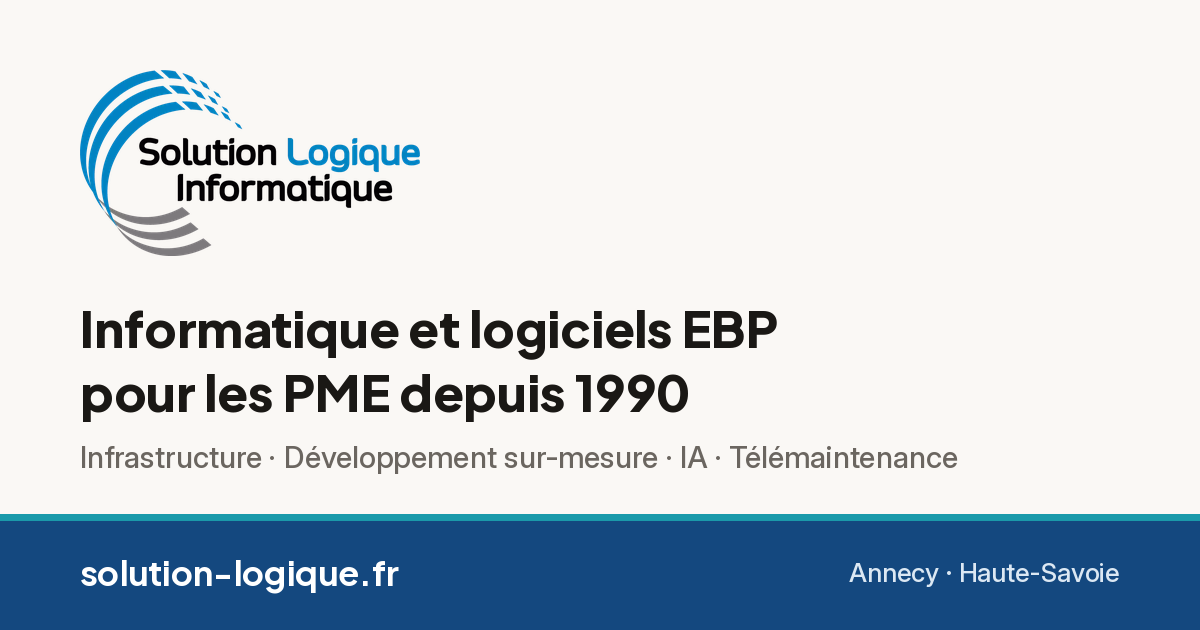
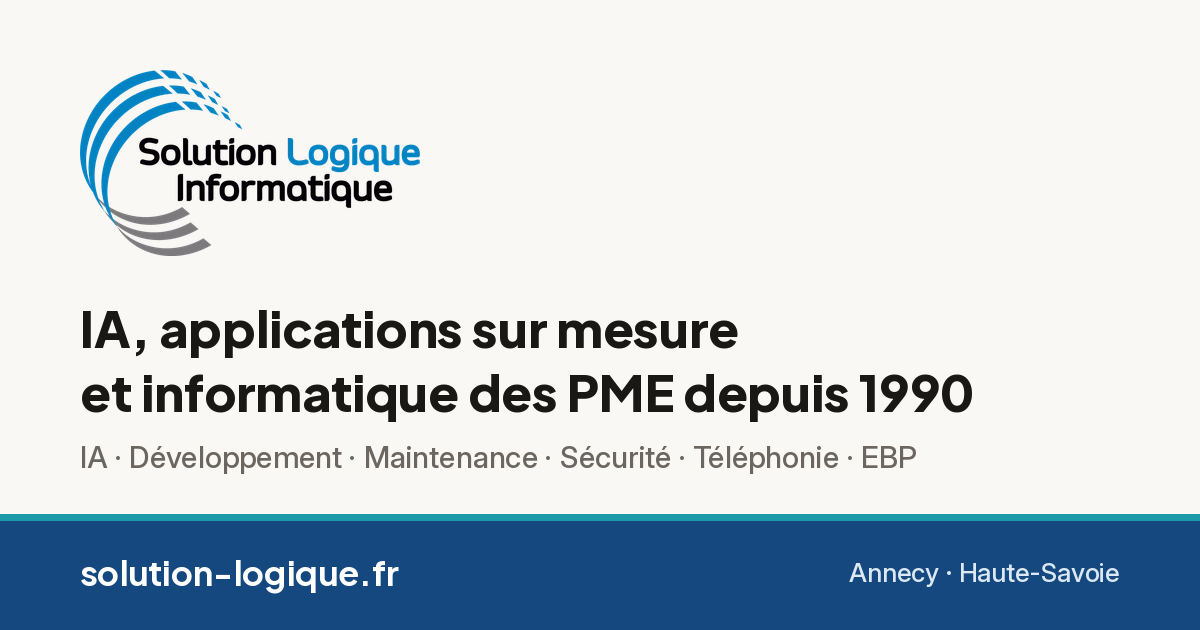
fix(seo): l'IA et le développement sur mesure d'abord, EBP en dernier
Ordre de mise en avant voulu par la direction le 29/10 : l'accompagnement
IA et le développement d'applications sur mesure en tête, l'informatique
comme socle, les logiciels EBP en dernier. Les faits ne changent pas,
seuls l'ordre et l'accent des textes posés le jour même :

- titre et description de l'accueil, titre par défaut, mots-clés ;
- titres des pages Développement et Applications, qui ne se limitent
  plus à EBP (les pages parlent aussi de CRM, banque, autre ERP) ;
- description de la page Contact ;
- données structurées : description, knowsAbout réordonné, makesOffer
  vers la page de chaque offre ;
- llms.txt : introduction et sections dans le même ordre ;
- image de partage.

Changed region(s): [[0.0617, 0.4825, 0.8325, 0.6635], [0.0617, 0.6937, 0.8017, 0.754]]

diff --git a/Web_NextJS/lib/seo.ts b/Web_NextJS/lib/seo.ts
@@ -21,7 +21,7 @@ export const IMAGE_PARTAGE = {
   url: "/assets/partage-solution-logique.png",
   width: 1200,
   height: 630,
-  alt: "Solution Logique, informatique et logiciels EBP à Annecy",
+  alt: "Solution Logique, IA, applications sur mesure et informatique des PME depuis 1990, à Annecy",
 };
 
 export interface PageSite {
@@ -49,9 +49,9 @@ export const PAGES: PageSite[] = [
   {
     chemin: "",
     titre: "Accueil",
-    titreAbsolu: "Solution Logique, informatique et logiciels EBP à Annecy",
+    titreAbsolu: "Solution Logique, IA, développement et informatique à Annecy",
     description:
-      "Solution Logique à Annecy : informatique pour PME, TPE et collectivités. Logiciels EBP, infrastructure, sur-mesure, IA et télémaintenance depuis plus de 30 ans.",
+      "Solution Logique, Annecy : IA et applications sur mesure pour les PME, informatique, sécurité et téléphonie avec un interlocuteur local, et logiciels EBP.",
     libelle: "Accueil",
     sources: ["app/page.tsx", "components/sections"],
     prioritePlan: 1,
@@ -167,30 +167,30 @@ export const PAGES: PageSite[] = [
     chemin: "/sur-mesure",
     titre: "Sur-mesure et intelligence artificielle",
     description:
-      "Applications métier autour d'EBP, intégrations, états sur-mesure et accompagnement IA pour les PME de Haute-Savoie. Solution Logique, Annecy.",
+      "Applications métier, intégrations, applications mobile et web et accompagnement IA pour les PME de Haute-Savoie. Solution Logique, Annecy.",
     libelle: "Sur-mesure & IA",
     sources: ["app/sur-mesure"],
     prioritePlan: 0.6,
   },
   {
     chemin: "/developpement-sur-mesure",
-    titre: "Développement sur-mesure autour d'EBP",
+    titre: "Développement d'applications sur mesure",
     description:
-      "Applications métier, intégrations et états sur-mesure autour de vos logiciels EBP. Solution Logique, Annecy, 30 ans d'expérience terrain.",
+      "Applications métier, intégrations et états sur mesure reliés à vos outils : EBP, CRM, banque, boutique en ligne. Solution Logique, Annecy, 30 ans de terrain.",
     libelle: "Développement sur-mesure",
     parent: "/sur-mesure",
-    service: { nom: "Développement sur-mesure autour d'EBP", type: "Développement d'applications métier" },
+    service: { nom: "Développement d'applications métier sur mesure", type: "Développement d'applications métier" },
     sources: ["app/developpement-sur-mesure"],
     prioritePlan: 0.7,
   },
   {
     chemin: "/applications-mobile-web",
-    titre: "Applications mobile et web liées à EBP",
+    titre: "Applications mobile et web sur mesure",
     description:
       "Applications terrain, portails web et tableaux de bord connectés à EBP ou à votre ERP. Données synchronisées, usage hors ligne. Solution Logique, Annecy.",
     libelle: "Applications mobile et web",
     parent: "/sur-mesure",
-    service: { nom: "Applications mobile et web connectées à EBP", type: "Développement d'applications mobile et web" },
+    service: { nom: "Applications mobile et web sur mesure", type: "Développement d'applications mobile et web" },
     sources: ["app/applications-mobile-web", "components/sections/ParcoursTerrain.tsx"],
     prioritePlan: 0.7,
   },
@@ -209,7 +209,7 @@ export const PAGES: PageSite[] = [
     chemin: "/contact",
     titre: "Contact, nous joindre à Annecy",
     description:
-      "Contactez Solution Logique : 04 50 64 02 33, 475 route des Vernes, 74370 Annecy. Devis gratuit pour vos logiciels EBP, formations et solutions informatiques.",
+      "Contactez Solution Logique : 04 50 64 02 33, 475 route des Vernes, 74370 Annecy. Devis gratuit : sur-mesure, IA, informatique, téléphonie et logiciels EBP.",
     libelle: "Contact",
     sources: ["app/contact"],
     prioritePlan: 0.6,

diff --git a/Web_NextJS/components/seo/StructuredData.tsx b/Web_NextJS/components/seo/StructuredData.tsx
@@ -26,6 +26,19 @@ export const ZONES_SERVIES = [
   { "@type": "AdministrativeArea", "name": "Savoie", "sameAs": "https://fr.wikipedia.org/wiki/Savoie_(d%C3%A9partement)" },
 ];
 
+/* Pages des offres, dans l'ordre de mise en avant (direction, 29/10/2026) */
+const OFFRES = [
+  "/accompagnement-ia",
+  "/developpement-sur-mesure",
+  "/applications-mobile-web",
+  "/informatique",
+  "/securite",
+  "/audit-cybersecurite",
+  "/telecom",
+  "/telemaintenance",
+  "/logiciels",
+];
+
 export const ORGANISATION = {
   "@context": "https://schema.org",
   "@type": ["Organization", "LocalBusiness"],
@@ -37,7 +50,35 @@ export const ORGANISATION = {
   "logo": `${SITE_URL}/assets/sli.webp`,
   "image": `${SITE_URL}/assets/solution.webp`,
   "description":
-    "Solutions informatiques, logiciels EBP, développement sur-mesure, accompagnement IA et télémaintenance depuis plus de 30 ans en Haute-Savoie.",
+    "Accompagnement IA, développement d'applications sur mesure et informatique des entreprises (postes, serveurs, sécurité, téléphonie IP, télémaintenance), avec un interlocuteur local, et logiciels EBP depuis plus de 30 ans en Haute-Savoie.",
+  /* Domaines dans l'ordre des activites voulu par la direction le 29/10/2026 :
+     l'IA et le developpement sur mesure d'abord, puis l'informatique (le
+     socle), et EBP en dernier. Chaque domaine a sa page sur le site. */
+  "knowsAbout": [
+    "Intelligence artificielle pour les PME",
+    "Développement d'applications sur mesure",
+    "Applications mobile et web",
+    "Maintenance informatique",
+    "Infrastructure informatique et cloud",
+    "Sauvegarde des données",
+    "Sécurité informatique",
+    "Audit de cybersécurité",
+    "Téléphonie IP et réseaux",
+    "Télémaintenance",
+    "Logiciels EBP",
+  ],
+  /* Les offres, dans le meme ordre, chacune vers sa page */
+  "makesOffer": OFFRES.map((chemin) => {
+    const page = pageSite(chemin);
+    return {
+      "@type": "Offer",
+      "itemOffered": {
+        "@type": "Service",
+        "name": page.service?.nom ?? page.titre,
+        "url": urlPage(chemin),
+      },
+    };
+  }),
   "foundingDate": "1990-11-08",
   "identifier": {
     "@type": "PropertyValue",

diff --git a/Web_NextJS/app/layout.tsx b/Web_NextJS/app/layout.tsx
@@ -32,12 +32,12 @@ const jakarta = Plus_Jakarta_Sans({
 export const metadata: Metadata = {
   metadataBase: new URL(SITE_URL),
   title: {
-    default: "Solution Logique, informatique et logiciels EBP à Annecy",
+    default: "Solution Logique, IA, développement et informatique à Annecy",
     template: "%s | Solution Logique",
   },
   description:
-    "Solution Logique à Annecy (74) : solutions informatiques, logiciels EBP (comptabilité, gestion commerciale, bâtiment), formations, télémaintenance et sécurité. Plus de 30 ans d'expertise.",
-  keywords: ["informatique Annecy", "logiciel EBP", "formation EBP", "télémaintenance", "solution informatique entreprise", "comptabilité EBP", "gestion commerciale", "sécurité informatique", "Haute-Savoie"],
+    "Solution Logique à Annecy (74) : accompagnement IA, développement d'applications sur mesure, infrastructure, sécurité, téléphonie IP, télémaintenance, logiciels EBP et formations. Plus de 30 ans d'expertise.",
+  keywords: ["accompagnement IA PME", "développement sur-mesure", "application mobile entreprise", "informatique Annecy", "prestataire informatique Annecy", "sécurité informatique", "téléphonie IP", "télémaintenance", "logiciel EBP", "formation EBP", "Haute-Savoie"],
   authors: [{ name: "Solution Logique" }],
   creator: "Solution Logique",
   publisher: "Solution Logique",
